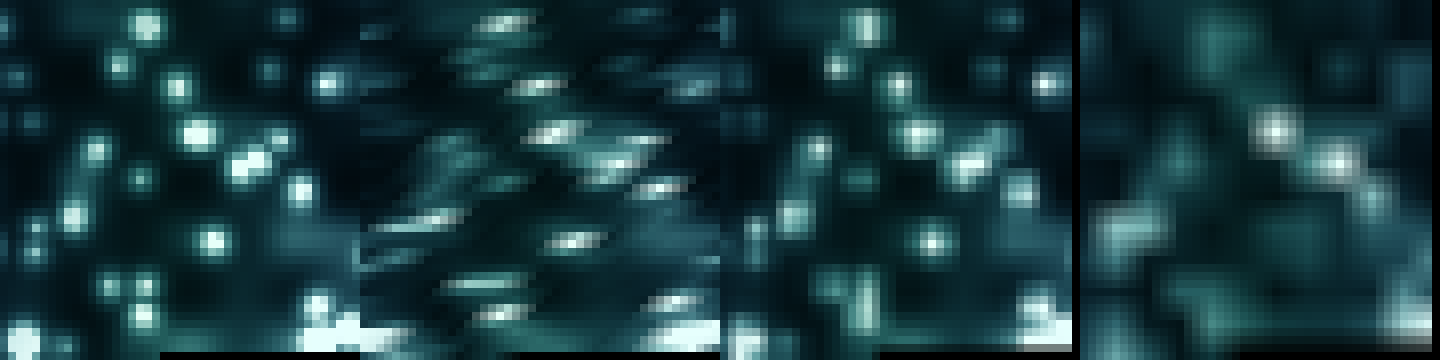
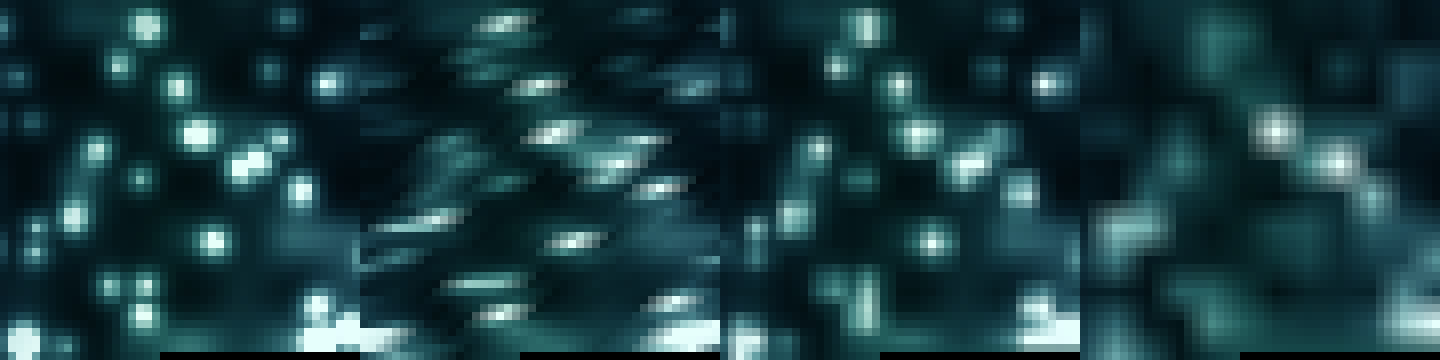
perf-harness(#927): corrective — sheets regenerated after the fix, profile validated before the run, per-frame counter, doc wording
Review P2/P3 on c851a08f: the contact sheets are regenerated from the
corrected scalar-cached wrapper (the earlier ones carried the black last
column of the out-of-range read); the output-profile stamp is validated
before the ladder runs; the instrumented twin's counter resets at index 0
so it reads one frame; the results doc no longer claims fewer evaluations
for 2D x2 on the strips (92 vs 65 at 256 px, 161 vs 126 at 500 px) and
states the two passes agree within 0.02 FPS rather than exactly.

X-E2E: not-applicable (perf harness)
X-Authored-Model: claude-fable-5-1

diff --git a/test/perf-harness/issue927.hardware.test.ts b/test/perf-harness/issue927.hardware.test.ts
@@ -11,11 +11,14 @@ const measurementOptions = { activationTimeoutMs: 20_000, settleMs: 2_000, sampl
 
 describe('2D block hold on hardware (#927 spike)', () => {
   it.skipIf(!runHardware)('pairs baseline, 1D lerp, and 2D block hold per member and K at 256 and 500 px', async () => {
+    // Validate the declared output profile before the run: an invalid
+    // PIXELBLAZE_OUTPUT_PROFILE must fail here, not after a completed ladder.
+    const outputProfile = declaredOutputProfileStamp(undefined)
     const candidates = issue927Candidates().map((candidate) => ({ id: `${candidate.member}:${candidate.variant}:k${candidate.k}`, code: candidate.code }))
     const result = await runPairedLadder(ip, ISSUE927_PIXEL_COUNTS, candidates, measurementOptions)
     const report = {
       generatedAt: new Date().toISOString(),
-      controller: { ...result.controller, outputProfile: declaredOutputProfileStamp(undefined), ...measurementOptions },
+      controller: { ...result.controller, outputProfile, ...measurementOptions },
       rows: result.rows,
       partial: result.runError != null,
     }

diff --git a/test/perf-harness/issue927.ts b/test/perf-harness/issue927.ts
@@ -88,7 +88,8 @@ export interface BlockHoldOptions {
    *  buffers only when the column crosses an anchor column (or a block-row
    *  begins), instead of six array reads per pixel. Same output. */
   scalarCache?: boolean
-  /** Export a per-frame counter of member evaluations (one global write per
+  /** Export a counter of member evaluations, reset at index 0 so it reads
+   *  the current frame's count after a full sweep (one global write per
    *  evaluation). Test-only: the measured candidates never carry it. */
   countEvaluations?: boolean
 }
@@ -145,7 +146,7 @@ export function render2D(index, x, y) {
   var __pxlblz_bh_ar = __pxlblz_bh_row - __pxlblz_bh_row % ${k}
   if (index == 0 || (__pxlblz_bh_col == 0 && __pxlblz_bh_ar == __pxlblz_bh_row)) {
     if (index == 0) {
-      __pxlblz_bh_fill(0)
+${countEvaluations ? '      __pxlblz_bh_evals = 0\n' : ''}      __pxlblz_bh_fill(0)
     }
     __pxlblz_bh_A.mutate((v, i) => __pxlblz_bh_B[i])
     __pxlblz_bh_nr = min(__pxlblz_bh_ar + ${k}, ${height - 1})

diff --git a/test/perf-harness/issue927.test.ts b/test/perf-harness/issue927.test.ts
@@ -69,8 +69,11 @@ describe('2D block hold (#927 spike)', () => {
       const shim = createShim({ pixelCount: N, dimensions: 2, mapPoints, getVirtualTime: () => 250, randomSeed: 927 })
       const bundled = bundle(held.code, {})
       const handle = loadPattern(bundled.code, bundled.metadata, shim.builtins)
-      handle.beforeRender(250)
-      for (let index = 0; index < N; index += 1) handle.render2D(index, 0, 0)
+      // Two frames: the counter resets at index 0, so it reads one frame's count.
+      for (let frame = 0; frame < 2; frame += 1) {
+        handle.beforeRender(250)
+        for (let index = 0; index < N; index += 1) handle.render2D(index, 0, 0)
+      }
       const evaluations = (handle.getExports() as { __pxlblz_bh_evals: number }).__pxlblz_bh_evals
       // Rows 0, K, 2K, ... up to the last anchor row (44 for both K), one
       // fill each: row 0 is the bootstrap fill at index 0, every later

diff --git a/docs/plans/issue-927-block-hold-results.md b/docs/plans/issue-927-block-hold-results.md
@@ -20,7 +20,7 @@ are ~N/K² per frame, and the Controller compiler accepts K = 2 and 4. The
 spike's buffers are two plain arrays (2 × 3 × 23 words at K = 2); a build
 would declare one arena plane through the lifetime-aware planner (#718).
 
-## Ladder (median FPS, two passes per rung, identical to 0.01 FPS; measured candidates carry no instrumentation)
+## Ladder (median FPS, mean of two passes per rung, passes within 0.02 FPS of each other; measured candidates carry no instrumentation)
 
 | member | px | exact | 1D lerp ×2 | 1D lerp ×4 | 2D block ×2 (array replay) | 2D block ×2 (scalar-cached replay) | 2D block ×4 (scalar-cached) |
 |---|---:|---:|---:|---:|---:|---:|---:|
@@ -45,9 +45,11 @@ Two findings that changed the recommendation:
   buys 9–45 points. The first ladder also carried an out-of-range read on
   the last column (review P1), fixed before these numbers.
 - **The gain is member-dependent in a way the evaluation count does not
-  predict.** Caustics at 2D ×2 beats the 1D lerp ×4 (+247 / +311% against
-  +225 / +228%) on the same or fewer evaluations; ZippyZaps at 2D ×2 gains
-  no more than the 1D lerp ×2 (+75 / +87%) despite evaluating fewer pixels.
+  predict.** On these strips the 2D ×2 form evaluates MORE pixels than the
+  1D lerp ×4 (92 against 65 at 256 px, 161 against 126 at 500 px, the
+  lookahead row being a fixed cost); Caustics still beats it (+246 / +310%
+  against +225 / +228%) while ZippyZaps gains no more than the 1D lerp ×2
+  (+75 / +88%).
   The wrapper is identical, so ZippyZaps' per-evaluation cost must rise
   when its anchors are evaluated ahead of order (its render path keeps
   per-pixel accumulators the lookahead visits out of sequence); this was
@@ -65,8 +67,9 @@ Two findings that changed the recommendation:
 | Caustics | 2D block ×4 | 0.072 | 18.04 | 32.22 | 73 | 78.5% |
 
 After the last-column fix the 2D block ×2 drifts LESS than the 1D lerp ×4
-on both members at about the same evaluation count (ZippyZaps 0.98 vs
-1.81 mean, Caustics 6.11 vs 12.78), and the contact sheets agree: the 1D
+on both members at a similar evaluation count on the full stage (0.265
+against 0.251 per pixel; ZippyZaps 0.98 vs 1.81 mean, Caustics 6.11 vs
+12.78), and the contact sheets (regenerated after that fix) agree: the 1D
 lerp streaks structure horizontally (Caustics' cells become dashes) while
 the 2D block keeps shapes and softens them. K = 4 in 2D is mush on both
 members. (The first ladder's drift table, taken before the fix, had the
@@ -79,8 +82,8 @@ as the reopen point for the large-installation round.** At 256 px the 2D
 block ×2 evaluates more pixels than the 1D lerp ×4 (the lookahead row is a
 fixed cost on a short stage) and lands between the 1D ×2 and ×4 depending
 on the member; the 1D lerp already covers that FPS range with a
-structurally simpler replay. The 2D form's advantages — visibly better
-drift at the same evaluation count (table above, contact sheets), and
+structurally simpler replay. The 2D form's advantages — better drift at
+a similar full-stage evaluation count (table above, contact sheets), and
 +310% against +228% on Caustics at 500 px — grow with stage height, which
 is the expander round's domain.
 
